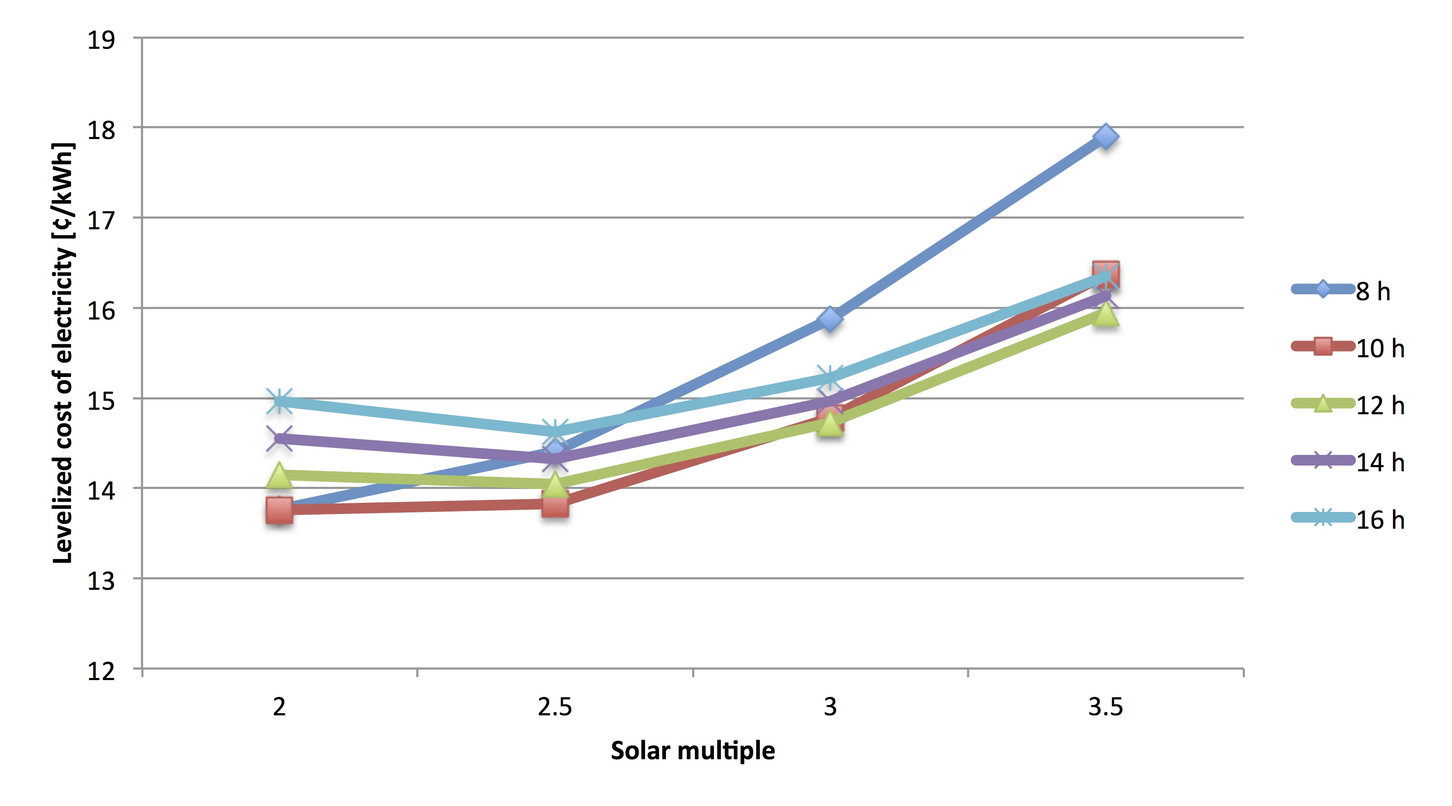
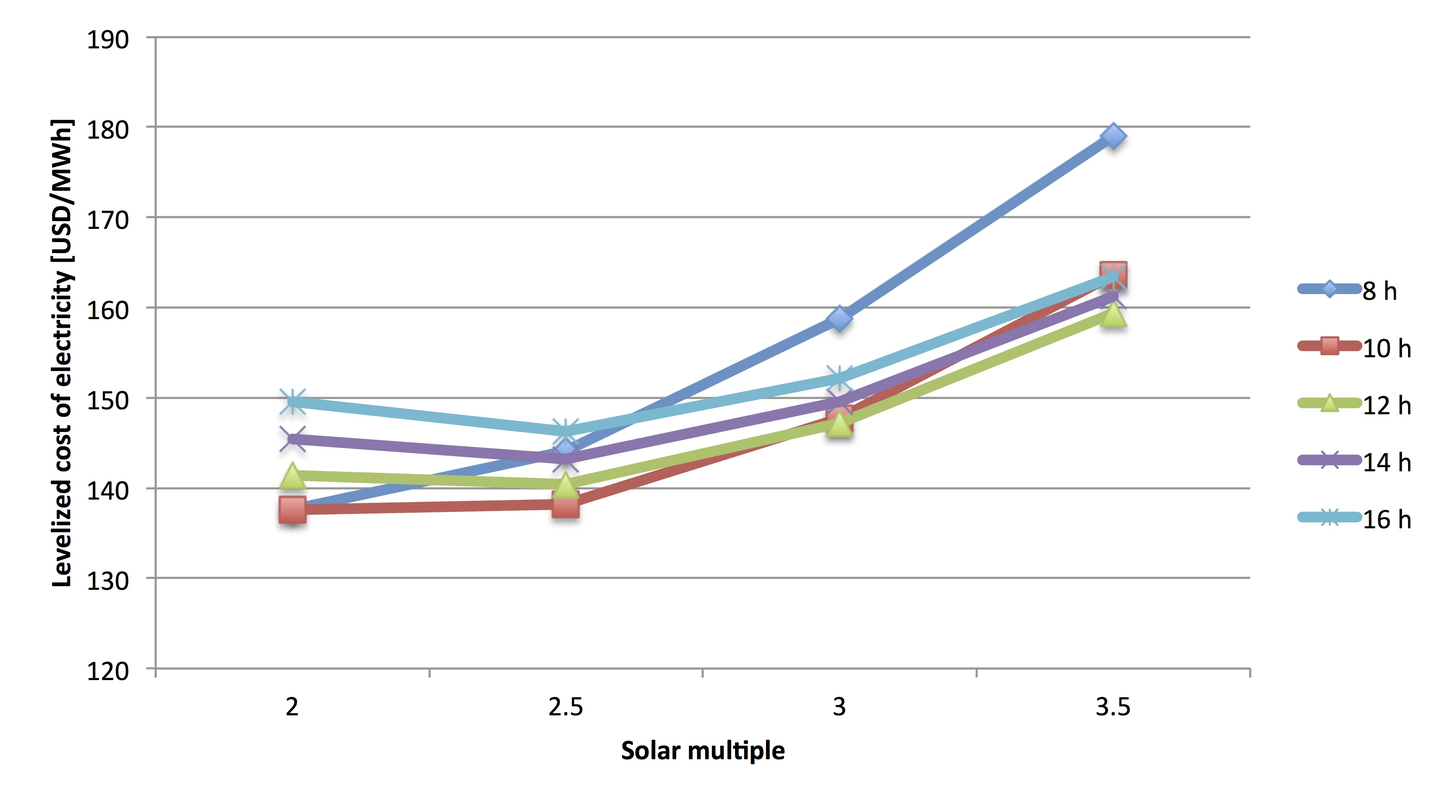
Währung vereinhaltlicht und Charts angepasst

diff --git a/simulation.tex b/simulation.tex
@@ -299,7 +299,7 @@ The financial parameter for the LCOE calculation of the CR power plant are seper
 
 
 
-The specific costs of the heliostat field of 180\$/m\textsuperscript{2} coming from J. B. Blackmon \cite{Blackmon2012}. He analyzed the costs of heliostat as a function of area for a representative solar central receiver power plant and calculated the total installed costs for a field of 5~000 heliostats with 148~m\textsuperscript{2} reflective area of approximately 180~\$/m\textsuperscript{2}. The analyze results showed that the costs are increasing with the size of the heliostats from 40~m\textsuperscript{2} on. So the adopted value of 180~\$/m\textsuperscript{2} reflective area for 140~m\textsuperscript{2} heliostats can be assumed as conservative.
+The specific costs of the heliostat field of 180~USD/m\textsuperscript{2} coming from J. B. Blackmon \cite{Blackmon2012}. He analyzed the costs of heliostat as a function of area for a representative solar central receiver power plant and calculated the total installed costs for a field of 5~000 heliostats with 148~m\textsuperscript{2} reflective area of approximately 180~USD/m\textsuperscript{2}. The analyze results showed that the costs are increasing with the size of the heliostats from 40~m\textsuperscript{2} on. So the adopted value of 180~USD/m\textsuperscript{2} reflective area for 140~m\textsuperscript{2} heliostats can be assumed as conservative.
 
 The remaining investment costs are based on the "Power Tower Technology Roadmap and Cost Reduction Plan" \cite{Kolb2011} from 2011.
 
@@ -307,19 +307,19 @@ On top of the investment costs a came 15 \% once-off surcharge for EPC and conti
 
 Fichtner analyzed the annual O\&M costs with 1.84-1.96~\% of the total investment costs for CR power plants in SA \cite{Fichtner2010}. The value of 2~\% can so also be assumed as conservative.
 
-The costs for the land purchase comes from the "African Agriculture Review" report of the Nedbank Capital, which reported the prices for farmland in SA. For the LCOE calculation of the CSP and PV system was the land purchase costs of \$3,000/ha assumed which is based on these report \cite{Cassell2012}.
+The costs for the land purchase comes from the "African Agriculture Review" report of the Nedbank Capital, which reported the prices for farmland in SA. For the LCOE calculation of the CSP and PV system was the land purchase costs of 3~000~USD/ha assumed which is based on these report \cite{Cassell2012}.
 
 \begin{table}[!h]  
   \centering
 	\begin{tabular}{  p{5.0cm} C{2.0cm} C{1.5cm}  C{1.5cm}  C{4.0cm} } 
 	\hline	
 \textbf{Item} & \textbf{Symbol}& \textbf{Value} & \textbf{Unit} & \textbf{Source}\\ \hline \hline
-Heliostat field &$c_{HF}$ & 180 & \$/m\textsuperscript{2} & \cite{Blackmon2012}\\ 
-Power block & $c_{PB,CR}$ & 1000 & \$/kW\textsubscript{el} & \cite{Kolb2011}\\ 
-Thermal energy storage&$c_{TES,CR}$ & 30 & \$/kWh\textsubscript{th}  & \cite{Kolb2011}\\ 
-Tower and receiver& $c_{T+R}$& 200 & \$/kW\textsubscript{th}  & \cite{Kolb2011}\\ 
+Heliostat field &$c_{HF}$ & 180 & USD/m\textsuperscript{2} & \cite{Blackmon2012}\\ 
+Power block & $c_{PB,CR}$ & 1000 & USD/kW\textsubscript{el} & \cite{Kolb2011}\\ 
+Thermal energy storage&$c_{TES,CR}$ & 30 & USD/kWh\textsubscript{th}  & \cite{Kolb2011}\\ 
+Tower and receiver& $c_{T+R}$& 200 & USD/kW\textsubscript{th}  & \cite{Kolb2011}\\ 
 Annual O\&M & $f_{O\&M,CR}$ & 2 & \% &\cite{Fichtner2010}\\
-Land purchase&$c_{LP}$ & 3~000 & \$/ha & \cite{Cassell2012}\\ \hline
+Land purchase&$c_{LP}$ & 3~000 & USD/ha & \cite{Cassell2012}\\ \hline
 Lifetime &$n$ & 25 & years & \cite{FraunhoferISE2013} \\ 
 Interest rate & $i_{CR}$ & 7.5 & \% & \cite{FraunhoferISE2013} \\ 
 Surcharge for EPC, project management and risk & $f_{EPC,CR}$& 15 & \% & \cite{Platzer2014} \\
@@ -395,7 +395,7 @@ The results of the LCOE claculation for the simulated CR configurations can be s
 \includegraphics[width=1\linewidth]{FIG/CR_LCOE}
 \caption[LCOE calculation results for CR simulation.]{LCOE calculation results for CR simulation.}\label{CR_LCOE}
 \end{figure}
-The results of the calculation shows that the lowest LCOE of 13.75~\$cent/kWh is reached at a SM of 2.0 and 10~h of TES and is just  marginal cheaper then using 8~h of TES with a LCOE of 13.76~\$cent/kWh. The LCOE addition from SM 2.0 to 2.5 is goes minimal up to 13.8~\$cent/kWh for 10~h of TES. The highest LCOE result of the simulated configurations is 17.90~\$cent/kWh at a SM of 3.5 and 8~h of TES. 
+The results of the calculation shows that the lowest LCOE of 137.55~USD/MWh is reached at a SM of 2.0 and 10~h of TES and is just  marginal cheaper then using 8~h of TES with a LCOE of 137.63~USD/MWh. The LCOE addition from SM 2.0 to 2.5 is goes minimal up to 138.25~USD/MWh for 10~h of TES. The highest LCOE result of the simulated configurations is 179.00~\$cent/kWh at a SM of 3.5 and 8~h of TES. 
 
 The behavior of the 12, 14 and 16~h of TES results for all SM of the LCOE is almost identical. Just the individual value is differently.
 
@@ -416,9 +416,9 @@ The behavior of the 12, 14 and 16~h of TES results for all SM of the LCOE is alm
 \end{figure}
 The calculated LCOEs of the simulated CR power plants is composed by seven cost parts. The investment costs of power block, tower and receiver, heliostat field, land purchase, TES, additional EPC, project management (PM) and risk as well as the annual costs for operation and maintain (O\&M). The brake-down of the LCOE components can be seen in Figure~\ref{CR_LCOE_BreakDown} for the simulation of the lowest and the highest configuration.  It can be seen that the investment costs of the land purchase don't have any influence to the LCOE of the simulated CR configurations. Also the share of the EPC, PM and risk as well as the share of O\&M don't varies much.
 
-When comprising the results of the load curve covering with the LCOE calculation the lowest LCOE for reaching the target of 90~\% is the configuration of a SM of 3.0 and 14~h of TES. The LCOE for these configuration is 14.96~\$cent/kWh. 
+When comprising the results of the load curve covering with the LCOE calculation the lowest LCOE for reaching the target of 90~\% is the configuration of a SM of 3.0 and 14~h of TES. The LCOE for these configuration is 149.58~USD/MWh. 
 
-For reaching 80~\% of the prescribed load curve the lowest LCOE is 13.83~\$cent/kWh using a SM of 2.5 and 10~h of TES. The lowest LCOE for covering 70~\% of the prescribed load curve is also the lowest LCOE of all and is mentioned above.
+For reaching 80~\% of the prescribed load curve the lowest LCOE is 138.25~USD/MWh using a SM of 2.5 and 10~h of TES. The lowest LCOE for covering 70~\% of the prescribed load curve is also the lowest LCOE of all and is mentioned above.
 
 \pagebreak
 \section{PTC power plant}
@@ -585,25 +585,25 @@ Also for the simulation of the PTC system the dispatch control of the turbine ou
 The financial parameter for calculating the LCOE of the simulated configuration are shown in Table~\ref{tbl: PTCFinance}. As before at the CR is the PTC power plant calculated over a lifetime of 25~years using a real interest rate of 7.5~\% \cite{FraunhoferISE2013}. Also the total plant availability of  15~\% once-off surcharge for EPC and contingencies on the total investment costs are equal to the CR \cite{Platzer2014}.
 
 
-The specific costs for the collector field inclusive HTF-system is assumed with 275~\$/m\textsuperscript{2} from \cite{Morin2012}. These specific cost could also be reduced by 25~\% by using the assumed cost reduction from Flabeg \cite{FLABEG_FE_GmbH2015}. So the for the simulation assumed costs are highly conservative.
+The specific costs for the collector field inclusive HTF-system is assumed with 275~USD/m\textsuperscript{2} from \cite{Morin2012}. These specific cost could also be reduced by 25~\% by using the assumed cost reduction from Flabeg \cite{FLABEG_FE_GmbH2015}. So the for the simulation assumed costs are highly conservative.
 
 The specific costs for the power block are the same as at the CR but from other sources \cite{Platzer2014}. 
 
-The specific costs of 50~\$/kWh\textsubscript{th} for the TES of the PTC are up to 50\% higher than the CR costs \cite{Platzer2014}. This is reduce to the lower energy density using lower storage temperatures \cite{Steinmann2015}. Other expected specific costs between 35 and 50~\$/kWh\textsubscript{th}  \cite{Steinmann2012}.
+The specific costs of 50~USD/kWh\textsubscript{th} for the TES of the PTC are up to 50~\% higher than the CR costs \cite{Platzer2014}. This is reduce to the lower energy density using lower storage temperatures \cite{Steinmann2015}. Other expected specific costs between 35 and 50~USD/kWh\textsubscript{th} \cite{Steinmann2012}.
 
 As before Fichtner analyzed also the annual O\&M costs for PTC power plants in SA and results costs of 1.96-1.97~\% of the total investment costs \cite{Fichtner2010}. The value of 2~\% can so also be assumed as conservative.
 
-The costs for the land purchase comes from the "African Agriculture Review" report of the Nedbank Capital, which reported the prices for farmland in SA. For the LCOE calculation of the CSP and PV system was the land purchase costs of \$3,000/ha assumed which is based on these report \cite{Cassell2012}.
+The costs for the land purchase comes from the "African Agriculture Review" report of the Nedbank Capital, which reported the prices for farmland in SA. For the LCOE calculation of the CSP and PV system was the land purchase costs of 3~000~USD/ha assumed which is based on these report \cite{Cassell2012}.
 \begin{table}[!h]  
   \centering
 	\begin{tabular}{  p{5.0cm} C{2.0cm} C{1.5cm}  C{1.5cm}  C{4.0cm} } 
 	\hline	
 \textbf{Item} & \textbf{Symbol}& \textbf{Value} & \textbf{Unit} & \textbf{Source}\\ \hline \hline
-Collector field/HTF-system & $c_{CF}$ & 275 & \$/m\textsuperscript{2} & \cite{Morin2012}\\ 
-Power block &$c_{PB,PTC}$ & 1000 & \$/kW\textsubscript{el} & \cite{Platzer2014}\\ 
-Thermal energy storage & $c_{TES,PTC}$ & 50 & \$/kWh\textsubscript{th} & \cite{Platzer2014}\\ 
-Land purchase & $c_{LP}$ & 3~000 & \$/ha & \cite{Cassell2012} \\ 
-Annual O\&M & $f_{O\&M,PTC}$ &2&\% &\cite{Fichtner2010}\\ 
+Collector field/HTF-system & $c_{CF}$ & 275 & USD/m\textsuperscript{2} & \cite{Morin2012}\\ 
+Power block &$c_{PB,PTC}$ & 1000 & USD/kW\textsubscript{el} & \cite{Platzer2014}\\ 
+Thermal energy storage & $c_{TES,PTC}$ & 50 & USD/kWh\textsubscript{th} & \cite{Platzer2014}\\ 
+Land purchase & $c_{LP}$ & 3~000 & USD/ha & \cite{Cassell2012} \\ 
+Annual O\&M & $f_{O\&M,PTC}$ & 2 & \% &\cite{Fichtner2010}\\ 
 \hline
 Lifetime&$n$ & 25 & years & \cite{FraunhoferISE2013} \\ 
 Interest rate& $i_{PTC}$& 7.5 & \% & \cite{FraunhoferISE2013} \\ 
@@ -614,7 +614,7 @@ Total plant availability &$f_{avail,plant,PTC}$ & 96 & \% & \cite{Morin2012} \\
 \caption[Finacial input parameter for PTC-simulation in SAM.]{Finacial input parameter for PTC-simulation in SAM.}\label{tbl: PTCFinance}
 \end{table}
 \subsection{Results of PTC power plant simulation}
-This section comprised the results of the simulation of the PTC power plant and there belonging LCOE results. The input parameter of the simulation and calculation can be find in Section~\ref{PTC power plant design  and simulation}
+This section comprised the results of the simulation from the above designed PTC power plant and there belonging LCOE results. Therefore the load curve covering performance and the belonging load profiles and duration curves are described and analyzed. The goal of these Section is to find the suitable PTC design configuration to reach 90~\% covering of the prescribed load which having the lowest belonging LCOE calculation result.
 \subsubsection{Load curve covering}
 As it was shown in Table~\ref{tbl: PTC_OverallConfig} on Page~\pageref{tbl: PTC_OverallConfig} the PTC system based power plant was simulated in 35 different configurations, using a SM from 2.0 to 5.0 and 8 to 16~h of TES, in order to reach the target of 90~\% load curve covering. This section compares the results of the configuration with the lowest SM and TES hours (SM: 2.0 \& TES: 8~h) with the configuration using the highest SM and TES hours  (SM: 5.0 \& TES: 16~h) representative for all in between.  
 
@@ -700,7 +700,7 @@ The target of 90~\% load covering is just reached by a SM of 5.0 and more then 1
 \subsubsection{Levelized costs of electricity}
 For the calculated LCOE the finacial input parameter in Table~\ref{tbl: PTCFinance} and a simplified method which is documented in Appendix~\ref{ChapterLCOE} on Page \pageref{ChapterLCOE} was used. These results of the LCOE claculation for the simulated PTC configurations can be seen in Figure~\ref{PTC_LCOE}. 
 
-The lowest LCOE result of the simulated PTC power plants is 16.17~\$cent/kWh at a SM of 2.5 and 8~h of TES. The 10~h TES has marginal higher result using a SM of 3.0 (16.20~\$cent/kWh) and 2.5 (16.24~\$cent/kWh). The highest LCOE result of 21.66~\$cent/kWh was reached at a SM of 2.0 and 16~h of TES. 
+The lowest LCOE result of the simulated PTC power plants is 161.69~USD/MWh at a SM of 2.5 and 8~h of TES. The 10~h TES has marginal higher result using a SM of 3.0 (162.00~USD/MWh) and 2.5 (162.35~USD/MWh). The highest LCOE result of 216.63~USD/MWh was reached at a SM of 2.0 and 16~h of TES. 
 
 Depending from almost identical load curve covering is the behavior of LCOE results of the simulated TES variations 12, 14 and 16~h almost identical. The difference in the height of the charts results from the higher investment cost of the larger storage configuration.
 
@@ -711,9 +711,9 @@ Depending from almost identical load curve covering is the behavior of LCOE resu
 \end{figure}
 The calculated annual LCOE's of the simulated PTC power plants are composed by six cost parts, namely the investment costs of the collector field, TES, power block, land purchase and additional EPC, project management (PM) and risk as well as the annual operation and maintenance (O\&M) costs. The share of the annual LCOE for the selected PTC power plants can be seen in Figure~\ref{PTC_LCOE_BreakDown}. The share of the land purchase is almost irrelevant for the LCOE. 
 
-When comprising the load curve covering results and the LCOE calculation results of the simulated PTC power plants, the lowest LCOE for reaching the target of 90~\% load curve covering is 19.22~\$cent/kWh at a SM of 5.0 and 16~h of TES. 
+When comprising the load curve covering results and the LCOE calculation results of the simulated PTC power plants, the lowest LCOE for reaching the target of 90~\% load curve covering is 192.15~USD/MWh at a SM of 5.0 and 16~h of TES. 
 
-For reaching a covering of 80~\% of the load curve the PTC configuration with a SM of 3.5 and 12~h of TES has the lowest LCOE with 17.03~\$cent/kWh. The lowest LCOE for reaching 70~\% of the prescribed load curve is 16.20~\$cent/kWh at a SM of 3.0 and 10~h of TES.
+For reaching a covering of 80~\% of the load curve the PTC configuration with a SM of 3.5 and 12~h of TES has the lowest LCOE with 170.32~USD/MWh. The lowest LCOE for reaching 70~\% of the prescribed load curve is 162.00~USD/MWh at a SM of 3.0 and 10~h of TES.
 \begin{figure}[!htbp]
         \centering                
         \begin{subfigure}[b]{0.5\textwidth}
@@ -729,7 +729,6 @@ For reaching a covering of 80~\% of the load curve the PTC configuration with a 
         \end{subfigure}
         \caption[Break-down of selected PTC-LCOE calculation results.]{Break-down of selected PTC-LCOE calculation results.}\label{PTC_LCOE_BreakDown}
 \end{figure}
-
 \pagebreak
 \section{PV power plant with adapted EES}
 \subsection{Design and simulation} \label{section PV system}
@@ -758,7 +757,7 @@ For this simulation the load was conected to the PV and Battery system as shown 
 \end{figure}
 \subsubsection{Simulated configurations}
 The configurations of the PV system with adapted electrical energy storage has also the target to reach 90~\% of the scheduled production curve from Section~\ref{Overall simulated configuration}. To reach this target it is necessary to over scale the energy production of the PV system to produce enough power to covers the given load and load the storage during the day. This is quite similar to the solar multiple of the CSP system, but can not be put on a same level. Therefore this over scaling will be called "PV multiple" (PVM) and means the multiple of the PV inverter output. For example the system with a maximum inverter output of 100~MW\textsubscript{el} is a PVM of 1 than has the PV system with a PVM of 2 a maximum inverter output of 200~MW\textsubscript{el}. 
-\begin{table}[!b]  
+\begin{table}[htbp]  
   \centering
 	\begin{tabular}{ p{4.0cm}  C{1.0cm} C{0.3cm} C{0.3cm} C{0.3cm} C{0.3cm} C{0.3cm}  | C{0.3cm} C{0.3cm} C{0.3cm} C{0.3cm} C{0.3cm} } 
 	\hline	
@@ -777,7 +776,7 @@ The simulated system load is maximum 100~MW\textsubscript{el}, so this is also t
 \subsubsection{PV system}
 The simulated PV system is orientated at actual PV systems in SA. Therefore the currently under construction situated Mulilo Sonnedix Prieska PV Project in the Northern Cape will serve as a role model for the main components. In this 75~MW\textsubscript{ac}-project are poly crystalline 305~W\textsubscript{dc} modules of type BYD 305P6C-36 from BYD installed. The efficiency of the modules is about 15.72~\%. The full module specification is in Table~\ref{tbl: PVmodule}. The peak performance of the project is 86.23~MW\textsubscript{dc}. \cite{Morse2014}
 
-\begin{table}[!h]  
+\begin{table}[htbp]  
   \centering
 	\begin{tabular}{  p{5.0cm}  C{5.0cm}  C{1.4cm} } 
 	\hline	
@@ -949,94 +948,104 @@ Cells & $\times 10^6$ & 5.1 & 6.3 & 7.6 & 8.8 & 10.1\\
 \subsubsection{Financial parameter}
 The financial parameter for the LCOE calculation are composed in Table~\ref{tbl: PVFinance}. As mentioned before was the LCOE calculation for this simulation made separately in Microfoft Excel using a simplified method which is documented in Appendix~\ref{ChapterLCOE} on Page \pageref{ChapterLCOE}. As for the other systems is the PV power plant designed for a lifetime of 25~years. 
 
-
-
-The specific large-scale PV system costs in South Africa  amount to 1.285~\$/W\textsubscript{DC,Peak} (14.5~ZAR/W\textsubscript{DC,Peak} using 11.286~USD/ZAR average in 2014 \cite{IRS2015}) which leads from an in 2014 actually built PV system \cite{Terblanche2015}. These specific costs are close to utility-scale PV systems in Europe with specific investments of 1~€/W\textsubscript{DC,Peak} \cite{FraunhoferISE2013}, corresponding to 1.33~\$/W (using the average exchange rate in 2014 of 1.33~\$/€ \cite{StatistaGmbH2015}).
+The specific large-scale PV system costs in South Africa  amount to 1.285~USD/W\textsubscript{DC,Peak} (14.5~ZAR/W\textsubscript{DC,Peak} using 11.286~USD/ZAR average in 2014 \cite{IRS2015}) which leads from an in 2014 actually built PV system \cite{Terblanche2015}. These specific costs are close to utility-scale PV systems in Europe with specific investments of 1~EUR/W\textsubscript{DC,Peak} \cite{FraunhoferISE2013}, corresponding to 1.33~USD/W (using the average exchange rate in 2014 of 1.33~USD/EUR  \cite{StatistaGmbH2015}).
 
 The LCOE was calculated with different interest rates and O\&M costs for the PV power plant and the EES system. The real interest rate for the PV power plant was amused with 2.8~\% \cite{FraunhoferISE2013} and the annual O\&M costs are 1~\%  of the PV investment costs \cite{IEA2014a}. A degradation of 1~\% per year of the annual energy output was assumed for the ageing phenomena of the PV cells \cite{Tidball2010}.
 
-
-
 The storage costs are calculates from three  parts. The costs for the PCS, the battery bank and the replacement costs of the battery bank during the lifetime of the system.
 
-The costs of the PCS of 615~\$/kW (463~€/kW using the average exchange rate in 2014 of 1.33 \$/€ \cite{StatistaGmbH2015}) was taken over from a study toward comparative life cycle cost analysis of EES \cite{Zakeri2015}. This is the average value of  a wide cost range (250-600€/kW) of PCS for Li-Ion EES systems.
+The costs of the PCS of 615~USD/kW (463~EUR/kW using the average exchange rate in 2014 of 1.33 USD/EUR \cite{StatistaGmbH2015}) was taken over from a study toward comparative life cycle cost analysis of EES \cite{Zakeri2015}. This is the average value of  a wide cost range (250-600€/kW) of PCS for Li-Ion EES systems.
 
-For the storage part of the EES a highly optimistic value of 300~\$/kWh was assumed from \cite{Nykvist2015}. The average storage part cost for Li-Ion EES in other studies is 914~\$/kWh \cite{Zakeri2015}.
+For the storage part of the EES a highly optimistic value of 300~USD/kWh was assumed from \cite{Nykvist2015}. The average storage part cost for Li-Ion EES in other studies is 914~USD/kWh \cite{Zakeri2015}.
 
-For the replacement costs of the an other highly optimistic value of 150~\$/kWh was assumed. The cost for the replacement of the storage in \cite{Zakeri2015} are approximately the half of the storage costs. This costs was also assumed with a look to Figure~\ref{CostofLi-ion} on Page~\pageref{CostofLi-ion}.
+For the replacement costs of the an other highly optimistic value of 150~USD/kWh was assumed. The cost for the replacement of the storage in \cite{Zakeri2015} are approximately the half of the storage costs. This costs was also assumed with a look to Figure~\ref{CostofLi-ion} on Page~\pageref{CostofLi-ion}.
 
 The assumed EES battery bank replacements during the lifetime was described in this Chapter already.
 
-The annual O\&M costs of 9.18~\$/kW was also a adaption from \cite{Zakeri2015} as well as the real interest rate of 8.0~\% 
+The annual O\&M costs of 9.18~USD/kW was also a adaption from \cite{Zakeri2015} as well as the real interest rate of 8.0~\%.
 
-
-
-As before for the other solar power plants also for the PV system was land purchase costs of \$3,000/ha \cite{Cassell2012} assumed.
+As before for the other solar power plants also for the PV system was land purchase costs of 3~000USD/ha \cite{Cassell2012} assumed.
 \pagebreak
 \begin{table}[!h]  
   \centering
-	\begin{tabular}{  p{5.5cm} C{1.5cm} C{1.5cm}  C{1.5cm}  C{4.0cm} } 
+	\begin{tabular}{  p{5.4cm} C{1.5cm} C{1.5cm}  C{1.7cm}  C{4.0cm} } 
 	\hline	
 \textbf{Item} & \textbf{Symbol}& \textbf{Value} & \textbf{Unit} & \textbf{Source}\\ \hline \hline
 Lifetime &$n$ & 25 & years & \cite{FraunhoferISE2013} \\ \hline
-Solar modules & $c_{sm}$&0.481 & \$/W\textsubscript{dc} & \cite{Terblanche2015}\\ 
-Structural &$c_{st}$ &0.138 & \$/W\textsubscript{dc} & \cite{Terblanche2015} \\ 
-Electrical parts &$c_{ep}$ &0.116 & \$/W\textsubscript{dc} & \cite{Terblanche2015} \\ 
-Inverters&$c_{inv}$ &0.117 & \$/W\textsubscript{dc} & \cite{Terblanche2015} \\ 
-Engineering and labour costs & $c_{elc}$ & 0.242 & \$/W\textsubscript{dc} & \cite{Terblanche2015} \\ 
-Security and infrastructure & $c_{si}$& 0.091 & \$/W\textsubscript{dc} & \cite{Terblanche2015} \\ 
-Transport and logistics & $c_{tl}$& 0.067 & \$/W\textsubscript{dc} & \cite{Terblanche2015}\\ 
-Sub-Station & $c_{ss}$ & 0.071 & \$/W\textsubscript{dc} &\cite{Terblanche2015} \\ \hline
-Total PV system costs & $c_{PV}$ & 1.285 &  \$/W\textsubscript{dc} &\cite{Terblanche2015} \\ 
+Solar modules & $c_{sm}$&0.481 & USD/W\textsubscript{dc} & \cite{Terblanche2015}\\ 
+Structural &$c_{st}$ &0.138 & USD/W\textsubscript{dc} & \cite{Terblanche2015} \\ 
+Electrical parts &$c_{ep}$ &0.116 & USD/W\textsubscript{dc} & \cite{Terblanche2015} \\ 
+Inverters&$c_{inv}$ &0.117 & USD/W\textsubscript{dc} & \cite{Terblanche2015} \\ 
+Engineering and labour costs & $c_{elc}$ & 0.242 & USD/W\textsubscript{dc} & \cite{Terblanche2015} \\ 
+Security and infrastructure & $c_{si}$& 0.091 & USD/W\textsubscript{dc} & \cite{Terblanche2015} \\ 
+Transport and logistics & $c_{tl}$& 0.067 & USD/W\textsubscript{dc} & \cite{Terblanche2015}\\ 
+Sub-Station & $c_{ss}$ & 0.071 & USD/W\textsubscript{dc} &\cite{Terblanche2015} \\ \hline
+Total PV system costs & $c_{PV}$ & 1.285 &  USD/W\textsubscript{dc} &\cite{Terblanche2015} \\ 
 Annual degradation factor &$f_{degrad}$ & 1 & \% & \cite{Tidball2010}\\ 
 Annual PV O\&M costs factor &$f_{O\&M,PV}$ & 1 & \% & \cite{IEA2014a}\\
 Interest rate of PV & $i_{PV}$& 2.8 & \% & \cite{FraunhoferISE2013} \\ \hline
-EES PCS costs & & 615 & \$/kW & \cite{Zakeri2015} \\ 
-EES battery bank costs & &300 & \$/kWh & \cite{Nykvist2015} \\ 
-EES battery bank replacement costs & & 150 & \$/kWh & \cite{Zakeri2015} \\ 
+EES PCS costs & & 615 & USD/kW & \cite{Zakeri2015} \\ 
+EES battery bank costs & &300 & USD/kWh & \cite{Nykvist2015} \\ 
+EES battery bank replacement costs & & 150 & USD/kWh & \cite{Zakeri2015} \\ 
 Assumed EES battery bank replacements during lifetime & - & 3 & - & - \\ 
-Annual EES O\&M costs & & 9.18 & \$/kW & \cite{Zakeri2015}\\
+Annual EES O\&M costs & & 9.18 & USD/kW & \cite{Zakeri2015}\\
 Interest rate of EES & $i_{EES}$& 8.0 & \% & \cite{Zakeri2015} \\ \hline
-Land purchase &$c_{LP}$ & 3~000.00 & \$/ha & \cite{Cassell2012} \\ 
+Land purchase &$c_{LP}$ & 3~000.00 & USD/ha & \cite{Cassell2012} \\ 
 \hline
 \end{tabular}
 \caption[Finacial input parameter for PV-simulation in SAM.]{Finacial input parameter for PV-simulation in SAM.}\label{tbl: PVFinance}
 \end{table}
 \pagebreak
 \subsection{Simulation results of PV power plant}
-In this section are the results of the simulated PV system with and without EES and there belonging LCOE calculation results compromised. The results of the PV system without EES are described in the next section. In the following section after that are the results for the PV system with adapted EES described.  
+In this section the results of the simulated PV system and there belonging LCOE results are described and analyzed. First the PV system without EES and then the results of the PV system with adapted EES. The goal of these Section is to find the suitable PV power plant design configuration to reach a covering of 90~\% of the prescribed load which having the lowest belonging LCOE result.
 \subsubsection{PV power plant without storage}
+As it was described before at the beginning of Section~\ref{section PV system}, the PV system was also simulated without using an EES system. These PV system was designed for a maximum power output of 99.8~MW\textsubscript{ac} and 115.0~MW\textsubscript{dc} as it is defined in Table~\ref{tbl: PVsystemdesign}. It must be noted, that the following results are simulated for the first year of the PV system so for the performance results contains no degradation which is to be expected during the full lifetime. For the LCOE calculation a degradation factor was assumed as it was described in the previous section.
 
-First year result 
+Figure \ref{PVwithoutEESanual} visualizes the resulting annually load covering behavior. It can be seen, that the system can't cover the prescribed load at all. As it is usually for a solar powered system without storage the energy production standstill during the night time. 
 
-LCOE incl degradation of 1\%
+\begin{figure}[htbp]  
+\centering
+\includegraphics[width=0.8\linewidth]{FIG/PVwithoutEESanual}
+\caption[Annual average profile of the simulated PV power plant without EES.]{Annual average profile of the simulated PV power plant without EES.}\label{PVwithoutEESanual}
+\end{figure}
+The simulation results of the energy output behavior in Figure~\ref{PVwithoutEES} shows that there is a small differences of the daily peak system power output between winter and summer time even though the GHI peak during the summer time is about twice that high then the winter peak. Nevertheless, the shorter sunshine duration reduces the daily energy output anyways. Especially appreciable is the situation at the noon of the 27. December. There the PV field produces more than the inverter can process because they reached there max output power of 99.8~MW\textsubscript{ac}.
 
 \begin{figure}[!htbp]
         \centering                
         \begin{subfigure}[b]{0.5\textwidth}
                 \centering
-                \includegraphics[width=1\textwidth]{FIG/PVwhithoutEESwinter}
-                \caption{.}\label{PVwhithoutEESwinter}
+                \includegraphics[width=1\textwidth]{FIG/PVwithoutEESwinter}
+                \caption{Power output behavior short after winter solstice (23. to 27. June).}\label{PVwithoutEESwinter}
         \end{subfigure}%
         ~
         \begin{subfigure}[b]{0.5\textwidth}
                 \centering
-                \includegraphics[width=1\textwidth]{FIG/PVwhithoutEESsummer}
-                \caption{.}\label{PVwhithoutEESsummer}
+                \includegraphics[width=1\textwidth]{FIG/PVwithoutEESsummer}
+                \caption{Power output behavior short after summer solstice (23. to 27. December).}\label{PVwithoutEESsummer}
         \end{subfigure}
-        \caption[.]{.}\label{PVwhithoutEES}
+        \caption[Power output behavior of PV system.]{Power output behavior of PV system.}\label{PVwithoutEES}
 \end{figure}
+The simulated PV system had a annual energy production during the first year of about 233.69~GWh
 
 
-\begin{figure}[htbp]  
-\centering
-\includegraphics[width=0.8\linewidth]{FIG/PVwhithoutEESanual}
-\caption[Annual average profile of the simulated PV power plant without EES.]{Annual average profile of the simulated PV power plant without EES.}\label{PVwhithoutEESanual}
-\end{figure}
+The here shown annual average PV system power output covers about 32.9~\% of the prescribed load in the first year of the system.
 
+
+\begin{table}[htbp]  
+  \centering
+	\begin{tabular}{  p{3.0cm}  C{3.0cm}  C{3.0cm} } 
+	\hline	
+\textbf{Item} & \textbf{Value} & \textbf{Unit} \\ \hline \hline
+First year energy & 233.69 & GWh \\ 
+Load covering &  32.9 & \% \\ 
+LCOE result & 50.81 & USD/MWh \\
+\hline
+\end{tabular}
+\caption[.]{.}\label{tbl: PVwithoutEESresult}
+\end{table}
 \pagebreak
 \subsubsection{Load curve covering}
-The PV system was also simulated with the adapted EES system as it was described in Section~\ref{section PV system}. In order to find a suitable size of the PV system and for the adapted EES, there was 25 different configurations simulated as they are described in Table~\ref{tbl: PV_OverallConfig}. The lowest defined configuration was simulated using a PVM of 2.0 and a 4~h of EES. The highest simulation configuration was defined with a PVM of 2.8 and a EES capacity for 8~h at 100~MW output. In the following the simulation results of these configurations are delineated  representative for the remaining 23 configurations in between. 
+The PV system was also simulated with the adapted EES system as it was described before in Section~\ref{section PV system}. In order to find a suitable size of the PV system and for the adapted EES, there was 25 different configurations simulated as they are described in Table~\ref{tbl: PV_OverallConfig}. The lowest defined configuration was simulated using a PVM of 2.0 and a 4~h of EES. The highest simulation configuration was defined with a PVM of 2.8 and a EES capacity for 8~h at 100~MW output. In the following the simulation results of these configurations are delineated  representative for the remaining 23 configurations in between. 
 
 The simulation results are based on the first year energy output of the designed PV power plants and don't includes degradation of the PV system or the adapted EES system. 
 
@@ -1084,7 +1093,7 @@ The from the energy output derived load curve covering results of the simulated 
 \subsubsection{Levelized costs of electricity}
 The LCOE was calculated by using the finacial input parameter from Table~\ref{tbl: PVFinance} and a simplified method which is documented in Appendix~\ref{ChapterLCOE} on Page \pageref{ChapterLCOE}. It must be noted, that the calculation is based on the simulation result for the first year PV power plant results under consulting of a degradation factor for the PV system, but not for the EES. The results of the LCOE claculation for the simulated PV power plant configurations can be seen in Figure~\ref{PV_LCOE}. 
 
-The lowest LCOE result of 25.18~\$cent/kWh is reached at a PVM of 2.2 and the lowest EES configuration and is marginal lower than  25.24~\$cent/kWh at a PVM of 2.4 with the same EES configuration. Generally must be said that there are no overlaps of LCOE lines in this chart and the spacing leads from the EES system costs.
+The lowest LCOE result of 251.83~USD/MWh is reached at a PVM of 2.2 and the lowest EES configuration and is marginal lower than  252.42~USD/MWh at a PVM of 2.4 with the same EES configuration. Generally must be said that there are no overlaps of LCOE lines in this chart and the spacing leads from the EES system costs.
 
 \begin{figure}[htbp]  
 \centering
@@ -1108,9 +1117,9 @@ The EES systems costs share makes the main part of the LCOE cost of the simulate
         \end{subfigure}
         \caption[Break-down of selected LCOE calculation  results of PV systems with adapted EES.]{Break-down of selected LCOE calculation results of PV systems with adapted EES.}\label{SMPV_LCOE_BreakDown}
 \end{figure}
-Comprising the results of the LCOE calculation and associated load curve covering results shows that for covering 90\% of the predicted load the configuration of PVM 2.6 and 7~h of EES reaching the lowest LCOE of 32.22~\$cent/kWh.
+Comprising the results of the LCOE calculation and associated load curve covering results shows that for covering 90\% of the predicted load the configuration of PVM 2.8 and 7~h of EES reaching the lowest LCOE of 315.39~USD/MWh. But the configuration owns an high value of surplus output of about 5.5~\% (see Figure~\ref{PV_energy_output}). The configuration PVM 2.6 reaches also the 90~\% load curve covering with a share of just 2.1~\% surplus output and a LCOE of 322.18~USD/MWh.
 
-The lowest LCOE for reaching 80~\% of the prescribed load is 27.52~\$cent/kWh using 5~h of EES and also a PVM of 2.6. For reaching 70~\% the 2.2 and 4~h of EES reaches the lowest LCOE of 25.18~\$cent/kWh.
+The lowest LCOE for reaching 80~\% of the prescribed load is 275.18~USD/MWh using 5~h of EES and also a PVM of 2.6. For reaching 70~\% the 2.2 and 4~h of EES reaches the lowest LCOE of 251.83~USD/MWh.
 \pagebreak
 
 \section{Interpretation and comparison of results}
